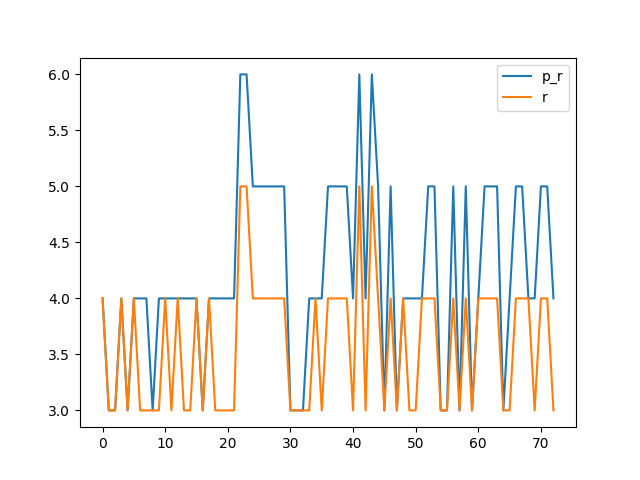
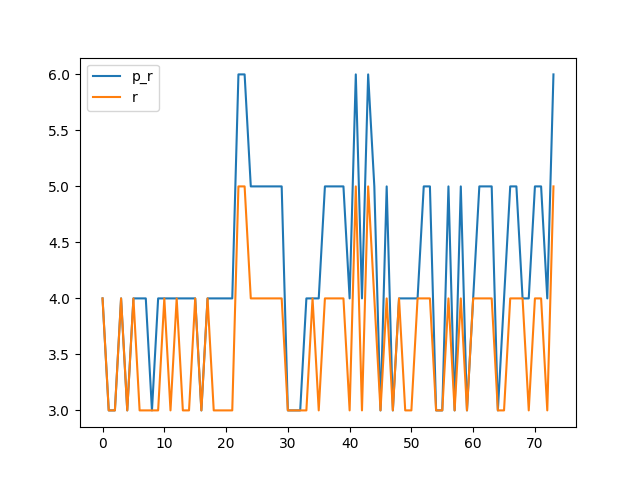
0x0049

diff --git a/benchmark.md b/benchmark.md
@@ -144,16 +144,18 @@ Synthesising 0x0047 pexact:304 r=5 exact:320 r=4
 
 Synthesising 0x0048 pexact:208 r=4 exact:224 r=3
 
+Synthesising 0x0049 pexact:406 r=6 exact:472 r=5
+
 ```mermaid
 xychart-beta
     title "Comparison powertwoexact twoexact"
-    x-axis [0, 1, 2, 3, 4, 5, 6, 7, 8, 9, 10, 11, 12, 13, 14, 15, 16, 17, 18, 19, 20, 21, 22, 23, 24, 25, 26, 27, 28, 29, 30, 31, 32, 33, 34, 35, 36, 37, 38, 39, 40, 41, 42, 43, 44, 45, 46, 47, 48, 49, 50, 51, 52, 53, 54, 55, 56, 57, 58, 59, 60, 61, 62, 63, 64, 65, 66, 67, 68, 69, 70, 71, 72]
-    y-axis "Switching Activity" 0-->464
-    line [96, 152, 152, 182, 152, 182, 208, 182, 152, 208, 182, 182, 182, 182, 182, 182, 152, 182, 208, 182, 208, 182, 406, 400, 336, 310, 310, 304, 310, 304, 224, 216, 152, 208, 182, 182, 336, 310, 310, 304, 208, 406, 182, 400, 310, 224, 304, 216, 182, 182, 182, 182, 310, 304, 224, 216, 310, 224, 304, 216, 280, 326, 326, 238, 152, 208, 336, 310, 182, 182, 310, 304, 208]
-    line [192, 152, 152, 312, 152, 352, 224, 192, 192, 224, 352, 216, 320, 216, 216, 352, 152, 326, 224, 216, 224, 192, 464, 448, 352, 344, 344, 320, 336, 352, 224, 216, 192, 224, 318, 192, 352, 344, 344, 312, 224, 448, 192, 440, 344, 224, 312, 216, 320, 216, 216, 280, 344, 312, 224, 216, 344, 224, 320, 216, 344, 336, 344, 288, 152, 224, 352, 336, 320, 192, 344, 320, 224]
-    line [238.68493150684932, 238.68493150684932, 238.68493150684932, 238.68493150684932, 238.68493150684932, 238.68493150684932, 238.68493150684932, 238.68493150684932, 238.68493150684932, 238.68493150684932, 238.68493150684932, 238.68493150684932, 238.68493150684932, 238.68493150684932, 238.68493150684932, 238.68493150684932, 238.68493150684932, 238.68493150684932, 238.68493150684932, 238.68493150684932, 238.68493150684932, 238.68493150684932, 238.68493150684932, 238.68493150684932, 238.68493150684932, 238.68493150684932, 238.68493150684932, 238.68493150684932, 238.68493150684932, 238.68493150684932, 238.68493150684932, 238.68493150684932, 238.68493150684932, 238.68493150684932, 238.68493150684932, 238.68493150684932, 238.68493150684932, 238.68493150684932, 238.68493150684932, 238.68493150684932, 238.68493150684932, 238.68493150684932, 238.68493150684932, 238.68493150684932, 238.68493150684932, 238.68493150684932, 238.68493150684932, 238.68493150684932, 238.68493150684932, 238.68493150684932, 238.68493150684932, 238.68493150684932, 238.68493150684932, 238.68493150684932, 238.68493150684932, 238.68493150684932, 238.68493150684932, 238.68493150684932, 238.68493150684932, 238.68493150684932, 238.68493150684932, 238.68493150684932, 238.68493150684932, 238.68493150684932, 238.68493150684932, 238.68493150684932, 238.68493150684932, 238.68493150684932, 238.68493150684932, 238.68493150684932, 238.68493150684932, 238.68493150684932, 238.68493150684932]
-    line [277.2054794520548, 277.2054794520548, 277.2054794520548, 277.2054794520548, 277.2054794520548, 277.2054794520548, 277.2054794520548, 277.2054794520548, 277.2054794520548, 277.2054794520548, 277.2054794520548, 277.2054794520548, 277.2054794520548, 277.2054794520548, 277.2054794520548, 277.2054794520548, 277.2054794520548, 277.2054794520548, 277.2054794520548, 277.2054794520548, 277.2054794520548, 277.2054794520548, 277.2054794520548, 277.2054794520548, 277.2054794520548, 277.2054794520548, 277.2054794520548, 277.2054794520548, 277.2054794520548, 277.2054794520548, 277.2054794520548, 277.2054794520548, 277.2054794520548, 277.2054794520548, 277.2054794520548, 277.2054794520548, 277.2054794520548, 277.2054794520548, 277.2054794520548, 277.2054794520548, 277.2054794520548, 277.2054794520548, 277.2054794520548, 277.2054794520548, 277.2054794520548, 277.2054794520548, 277.2054794520548, 277.2054794520548, 277.2054794520548, 277.2054794520548, 277.2054794520548, 277.2054794520548, 277.2054794520548, 277.2054794520548, 277.2054794520548, 277.2054794520548, 277.2054794520548, 277.2054794520548, 277.2054794520548, 277.2054794520548, 277.2054794520548, 277.2054794520548, 277.2054794520548, 277.2054794520548, 277.2054794520548, 277.2054794520548, 277.2054794520548, 277.2054794520548, 277.2054794520548, 277.2054794520548, 277.2054794520548, 277.2054794520548, 277.2054794520548]
-    bar [80, 60, 60, 80, 60, 80, 80, 80, 60, 80, 80, 80, 80, 80, 80, 80, 60, 80, 80, 80, 80, 80, 120, 120, 100, 100, 100, 100, 100, 100, 60, 60, 60, 80, 80, 80, 100, 100, 100, 100, 80, 120, 80, 120, 100, 60, 100, 60, 80, 80, 80, 80, 100, 100, 60, 60, 100, 60, 100, 60, 80, 100, 100, 100, 60, 80, 100, 100, 80, 80, 100, 100, 80]
-    bar [80, 60, 60, 80, 60, 80, 60, 60, 60, 60, 80, 60, 80, 60, 60, 80, 60, 80, 60, 60, 60, 60, 100, 100, 80, 80, 80, 80, 80, 80, 60, 60, 60, 60, 80, 60, 80, 80, 80, 80, 60, 100, 60, 100, 80, 60, 80, 60, 80, 60, 60, 80, 80, 80, 60, 60, 80, 60, 80, 60, 80, 80, 80, 80, 60, 60, 80, 80, 80, 60, 80, 80, 60]
+    x-axis [0, 1, 2, 3, 4, 5, 6, 7, 8, 9, 10, 11, 12, 13, 14, 15, 16, 17, 18, 19, 20, 21, 22, 23, 24, 25, 26, 27, 28, 29, 30, 31, 32, 33, 34, 35, 36, 37, 38, 39, 40, 41, 42, 43, 44, 45, 46, 47, 48, 49, 50, 51, 52, 53, 54, 55, 56, 57, 58, 59, 60, 61, 62, 63, 64, 65, 66, 67, 68, 69, 70, 71, 72, 73]
+    y-axis "Switching Activity" 0-->472
+    line [96, 152, 152, 182, 152, 182, 208, 182, 152, 208, 182, 182, 182, 182, 182, 182, 152, 182, 208, 182, 208, 182, 406, 400, 336, 310, 310, 304, 310, 304, 224, 216, 152, 208, 182, 182, 336, 310, 310, 304, 208, 406, 182, 400, 310, 224, 304, 216, 182, 182, 182, 182, 310, 304, 224, 216, 310, 224, 304, 216, 280, 326, 326, 238, 152, 208, 336, 310, 182, 182, 310, 304, 208, 406]
+    line [192, 152, 152, 312, 152, 352, 224, 192, 192, 224, 352, 216, 320, 216, 216, 352, 152, 326, 224, 216, 224, 192, 464, 448, 352, 344, 344, 320, 336, 352, 224, 216, 192, 224, 318, 192, 352, 344, 344, 312, 224, 448, 192, 440, 344, 224, 312, 216, 320, 216, 216, 280, 344, 312, 224, 216, 344, 224, 320, 216, 344, 336, 344, 288, 152, 224, 352, 336, 320, 192, 344, 320, 224, 472]
+    line [240.94594594594594, 240.94594594594594, 240.94594594594594, 240.94594594594594, 240.94594594594594, 240.94594594594594, 240.94594594594594, 240.94594594594594, 240.94594594594594, 240.94594594594594, 240.94594594594594, 240.94594594594594, 240.94594594594594, 240.94594594594594, 240.94594594594594, 240.94594594594594, 240.94594594594594, 240.94594594594594, 240.94594594594594, 240.94594594594594, 240.94594594594594, 240.94594594594594, 240.94594594594594, 240.94594594594594, 240.94594594594594, 240.94594594594594, 240.94594594594594, 240.94594594594594, 240.94594594594594, 240.94594594594594, 240.94594594594594, 240.94594594594594, 240.94594594594594, 240.94594594594594, 240.94594594594594, 240.94594594594594, 240.94594594594594, 240.94594594594594, 240.94594594594594, 240.94594594594594, 240.94594594594594, 240.94594594594594, 240.94594594594594, 240.94594594594594, 240.94594594594594, 240.94594594594594, 240.94594594594594, 240.94594594594594, 240.94594594594594, 240.94594594594594, 240.94594594594594, 240.94594594594594, 240.94594594594594, 240.94594594594594, 240.94594594594594, 240.94594594594594, 240.94594594594594, 240.94594594594594, 240.94594594594594, 240.94594594594594, 240.94594594594594, 240.94594594594594, 240.94594594594594, 240.94594594594594, 240.94594594594594, 240.94594594594594, 240.94594594594594, 240.94594594594594, 240.94594594594594, 240.94594594594594, 240.94594594594594, 240.94594594594594, 240.94594594594594, 240.94594594594594]
+    line [279.8378378378378, 279.8378378378378, 279.8378378378378, 279.8378378378378, 279.8378378378378, 279.8378378378378, 279.8378378378378, 279.8378378378378, 279.8378378378378, 279.8378378378378, 279.8378378378378, 279.8378378378378, 279.8378378378378, 279.8378378378378, 279.8378378378378, 279.8378378378378, 279.8378378378378, 279.8378378378378, 279.8378378378378, 279.8378378378378, 279.8378378378378, 279.8378378378378, 279.8378378378378, 279.8378378378378, 279.8378378378378, 279.8378378378378, 279.8378378378378, 279.8378378378378, 279.8378378378378, 279.8378378378378, 279.8378378378378, 279.8378378378378, 279.8378378378378, 279.8378378378378, 279.8378378378378, 279.8378378378378, 279.8378378378378, 279.8378378378378, 279.8378378378378, 279.8378378378378, 279.8378378378378, 279.8378378378378, 279.8378378378378, 279.8378378378378, 279.8378378378378, 279.8378378378378, 279.8378378378378, 279.8378378378378, 279.8378378378378, 279.8378378378378, 279.8378378378378, 279.8378378378378, 279.8378378378378, 279.8378378378378, 279.8378378378378, 279.8378378378378, 279.8378378378378, 279.8378378378378, 279.8378378378378, 279.8378378378378, 279.8378378378378, 279.8378378378378, 279.8378378378378, 279.8378378378378, 279.8378378378378, 279.8378378378378, 279.8378378378378, 279.8378378378378, 279.8378378378378, 279.8378378378378, 279.8378378378378, 279.8378378378378, 279.8378378378378, 279.8378378378378]
+    bar [80, 60, 60, 80, 60, 80, 80, 80, 60, 80, 80, 80, 80, 80, 80, 80, 60, 80, 80, 80, 80, 80, 120, 120, 100, 100, 100, 100, 100, 100, 60, 60, 60, 80, 80, 80, 100, 100, 100, 100, 80, 120, 80, 120, 100, 60, 100, 60, 80, 80, 80, 80, 100, 100, 60, 60, 100, 60, 100, 60, 80, 100, 100, 100, 60, 80, 100, 100, 80, 80, 100, 100, 80, 120]
+    bar [80, 60, 60, 80, 60, 80, 60, 60, 60, 60, 80, 60, 80, 60, 60, 80, 60, 80, 60, 60, 60, 60, 100, 100, 80, 80, 80, 80, 80, 80, 60, 60, 60, 60, 80, 60, 80, 80, 80, 80, 60, 100, 60, 100, 80, 60, 80, 60, 80, 60, 60, 80, 80, 80, 60, 60, 80, 60, 80, 60, 80, 80, 80, 80, 60, 60, 80, 80, 80, 60, 80, 80, 60, 100]
 ```
 
